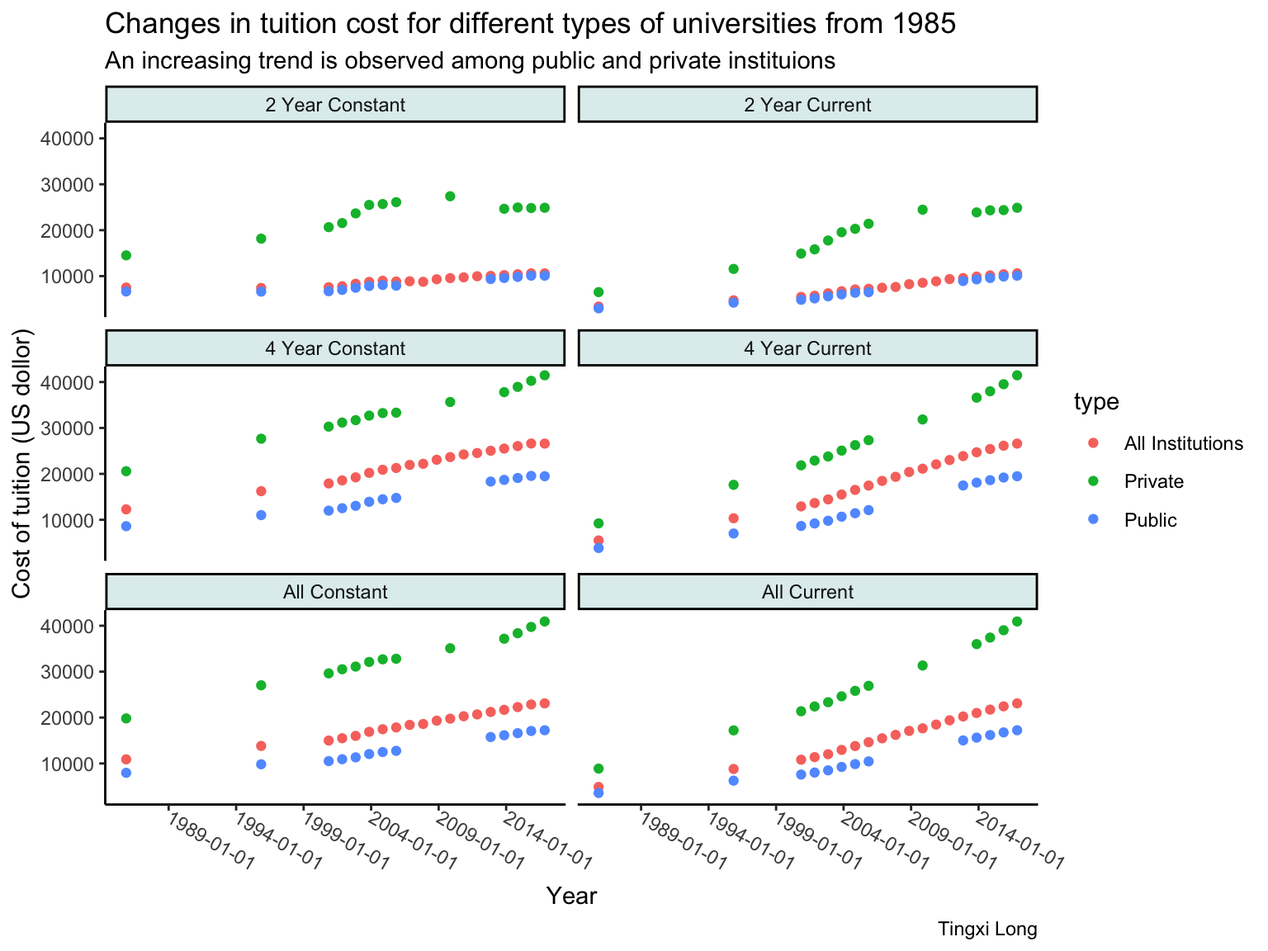
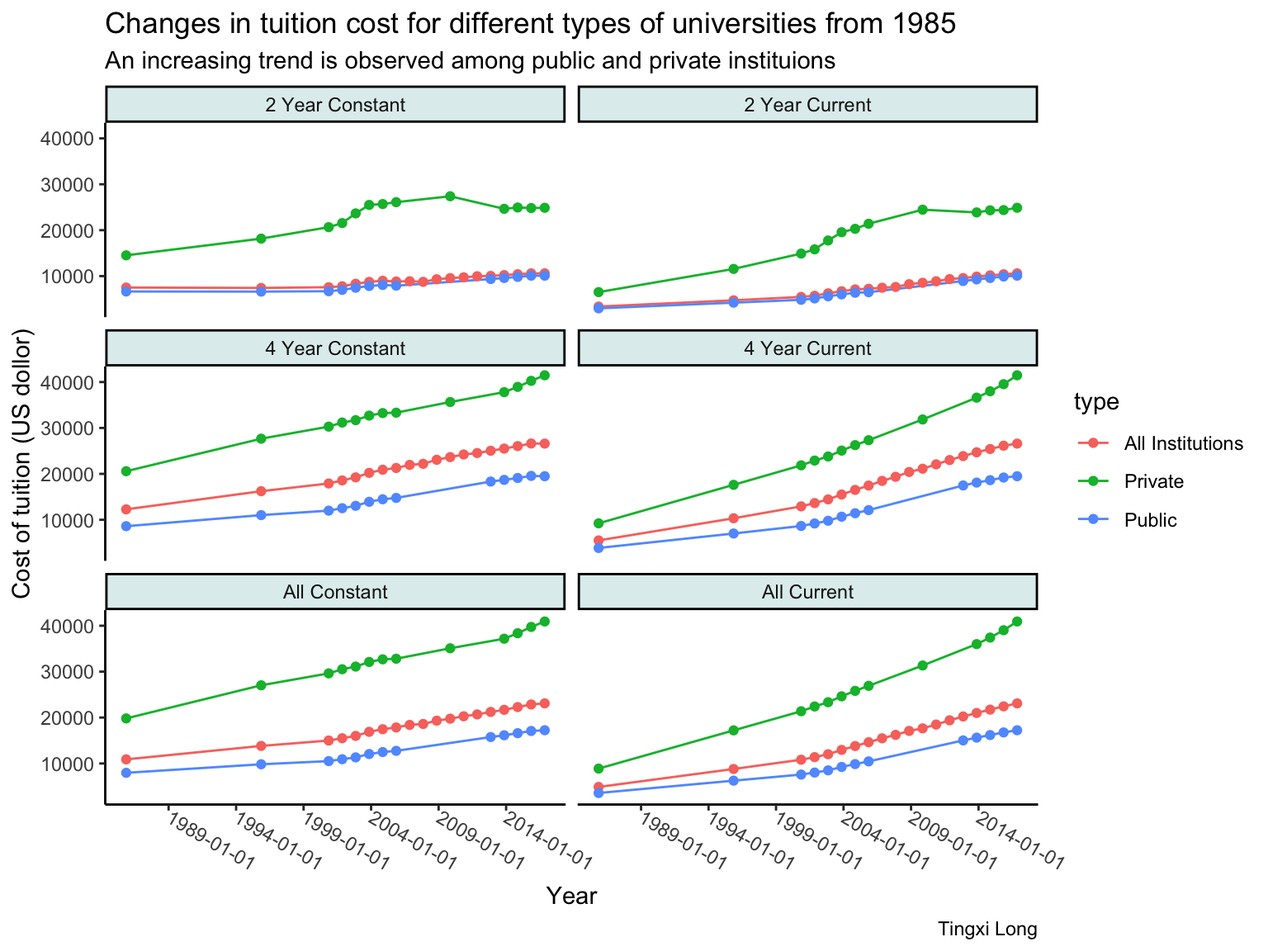
added bib and summary of analysis

diff --git a/_site/data_analysis.html b/_site/data_analysis.html
@@ -83,6 +83,25 @@ code span.st { color: #4070a0; } /* String */
 code span.va { color: #19177c; } /* Variable */
 code span.vs { color: #4070a0; } /* VerbatimString */
 code span.wa { color: #60a0b0; font-weight: bold; font-style: italic; } /* Warning */
+div.csl-bib-body { }
+div.csl-entry {
+  clear: both;
+}
+.hanging div.csl-entry {
+  margin-left:2em;
+  text-indent:-2em;
+}
+div.csl-left-margin {
+  min-width:2em;
+  float:left;
+}
+div.csl-right-inline {
+  margin-left:2em;
+  padding-left:1em;
+}
+div.csl-indent {
+  margin-left: 2em;
+}
 </style>
 
 
@@ -177,14 +196,14 @@ code span.wa { color: #60a0b0; font-weight: bold; font-style: italic; } /* Warni
   <li><a href="#introduction" id="toc-introduction" class="nav-link active" data-scroll-target="#introduction">Introduction</a></li>
   <li><a href="#data" id="toc-data" class="nav-link" data-scroll-target="#data">Data</a>
   <ul class="collapse">
-  <li><a href="#historical_tuition.csv" id="toc-historical_tuition.csv" class="nav-link" data-scroll-target="#historical_tuition.csv"><strong>historical_tuition.csv</strong></a></li>
+  <li><a href="#historical_tuition.csv-tuitioncost" id="toc-historical_tuition.csv-tuitioncost" class="nav-link" data-scroll-target="#historical_tuition.csv-tuitioncost"><strong>historical_tuition.csv</strong> <span class="citation" data-cites="tuitioncost">(<em>Tuition and Fees, 1998-99 Through 2020-21</em> 2021)</span></a></li>
   <li><a href="#tuition_cost.csv" id="toc-tuition_cost.csv" class="nav-link" data-scroll-target="#tuition_cost.csv"><strong>tuition_cost.csv</strong></a></li>
   </ul></li>
   <li><a href="#tasks" id="toc-tasks" class="nav-link" data-scroll-target="#tasks">Tasks</a>
   <ul class="collapse">
   <li><a href="#what-is-the-trend-of-tuition-cost-for-colleges-in-the-us" id="toc-what-is-the-trend-of-tuition-cost-for-colleges-in-the-us" class="nav-link" data-scroll-target="#what-is-the-trend-of-tuition-cost-for-colleges-in-the-us">What is the trend of tuition cost for colleges in the US?</a></li>
   <li><a href="#which-state-has-the-highest-average-tuition-cost" id="toc-which-state-has-the-highest-average-tuition-cost" class="nav-link" data-scroll-target="#which-state-has-the-highest-average-tuition-cost">Which State has the highest average tuition cost?</a></li>
-  <li><a href="#the-top-10-most-expensive-universities-in-maryland." id="toc-the-top-10-most-expensive-universities-in-maryland." class="nav-link" data-scroll-target="#the-top-10-most-expensive-universities-in-maryland.">The top 10 most expensive universities in Maryland.</a></li>
+  <li><a href="#the-most-expensive-universities-in-maryland." id="toc-the-most-expensive-universities-in-maryland." class="nav-link" data-scroll-target="#the-most-expensive-universities-in-maryland.">The most expensive universities in Maryland.</a></li>
   </ul></li>
   <li><a href="#summary" id="toc-summary" class="nav-link" data-scroll-target="#summary">Summary:</a></li>
   </ul>
@@ -219,7 +238,7 @@ code span.wa { color: #60a0b0; font-weight: bold; font-style: italic; } /* Warni
 </div>
 <section id="introduction" class="level2">
 <h2 class="anchored" data-anchor-id="introduction">Introduction</h2>
-<p>In this part, I will perform an example data analysis with R.</p>
+<p>In this part, I will perform an example data analysis with R with <span class="citation" data-cites="tidytuesday tuitioncost historical">(<a href="#ref-tidytuesday" role="doc-biblioref">Mock 2022</a>; <a href="#ref-tuitioncost" role="doc-biblioref"><em>Tuition and Fees, 1998-99 Through 2020-21</em> 2021</a>; <a href="#ref-historical" role="doc-biblioref">National Center for Education Statistics 2022</a>)</span>.</p>
 <p>Objective:</p>
 <ul>
 <li>What is the trend of tuition cost among public, private and all institutions in the United States?</li>
@@ -250,56 +269,14 @@ Note
 <h2 class="anchored" data-anchor-id="data">Data</h2>
 <p>Specifically, we will use the following data from March 2020.</p>
 <div class="cell">
-<div class="sourceCode cell-code" id="cb1"><pre class="sourceCode r code-with-copy"><code class="sourceCode r"><span id="cb1-1"><a href="#cb1-1" aria-hidden="true" tabindex="-1"></a><span class="fu">library</span>(dplyr)</span></code><button title="Copy to Clipboard" class="code-copy-button"><i class="bi"></i></button></pre></div>
-<div class="cell-output cell-output-stderr">
-<pre><code>
-Attaching package: 'dplyr'</code></pre>
-</div>
-<div class="cell-output cell-output-stderr">
-<pre><code>The following objects are masked from 'package:stats':
-
-    filter, lag</code></pre>
-</div>
-<div class="cell-output cell-output-stderr">
-<pre><code>The following objects are masked from 'package:base':
-
-    intersect, setdiff, setequal, union</code></pre>
-</div>
-<div class="sourceCode cell-code" id="cb5"><pre class="sourceCode r code-with-copy"><code class="sourceCode r"><span id="cb5-1"><a href="#cb5-1" aria-hidden="true" tabindex="-1"></a><span class="fu">library</span>(tidyverse)</span></code><button title="Copy to Clipboard" class="code-copy-button"><i class="bi"></i></button></pre></div>
-<div class="cell-output cell-output-stderr">
-<pre><code>── Attaching packages
-───────────────────────────────────────
-tidyverse 1.3.2 ──</code></pre>
-</div>
-<div class="cell-output cell-output-stderr">
-<pre><code>✔ ggplot2 3.3.6     ✔ purrr   0.3.4
-✔ tibble  3.1.7     ✔ stringr 1.4.0
-✔ tidyr   1.2.0     ✔ forcats 0.5.2
-✔ readr   2.1.2     
-── Conflicts ────────────────────────────────────────── tidyverse_conflicts() ──
-✖ dplyr::filter() masks stats::filter()
-✖ dplyr::lag()    masks stats::lag()</code></pre>
-</div>
-<div class="sourceCode cell-code" id="cb8"><pre class="sourceCode r code-with-copy"><code class="sourceCode r"><span id="cb8-1"><a href="#cb8-1" aria-hidden="true" tabindex="-1"></a><span class="fu">library</span>(ggplot2)</span>
-<span id="cb8-2"><a href="#cb8-2" aria-hidden="true" tabindex="-1"></a><span class="fu">library</span>(lubridate)</span></code><button title="Copy to Clipboard" class="code-copy-button"><i class="bi"></i></button></pre></div>
-<div class="cell-output cell-output-stderr">
-<pre><code>
-Attaching package: 'lubridate'
-
-The following objects are masked from 'package:base':
-
-    date, intersect, setdiff, union</code></pre>
-</div>
-<div class="sourceCode cell-code" id="cb10"><pre class="sourceCode r code-with-copy"><code class="sourceCode r"><span id="cb10-1"><a href="#cb10-1" aria-hidden="true" tabindex="-1"></a><span class="fu">library</span>(here)</span></code><button title="Copy to Clipboard" class="code-copy-button"><i class="bi"></i></button></pre></div>
-<div class="cell-output cell-output-stderr">
-<pre><code>here() starts at /Users/longtingxi/R/statcomputing/TLong</code></pre>
-</div>
+<div class="sourceCode cell-code" id="cb1"><pre class="sourceCode r code-with-copy"><code class="sourceCode r"><span id="cb1-1"><a href="#cb1-1" aria-hidden="true" tabindex="-1"></a><span class="fu">library</span>(dplyr)</span>
+<span id="cb1-2"><a href="#cb1-2" aria-hidden="true" tabindex="-1"></a><span class="fu">library</span>(tidyverse)</span>
+<span id="cb1-3"><a href="#cb1-3" aria-hidden="true" tabindex="-1"></a><span class="fu">library</span>(ggplot2)</span>
+<span id="cb1-4"><a href="#cb1-4" aria-hidden="true" tabindex="-1"></a><span class="fu">library</span>(lubridate)</span>
+<span id="cb1-5"><a href="#cb1-5" aria-hidden="true" tabindex="-1"></a><span class="fu">library</span>(here)</span></code><button title="Copy to Clipboard" class="code-copy-button"><i class="bi"></i></button></pre></div>
 </div>
 <div class="cell">
-<div class="sourceCode cell-code" id="cb12"><pre class="sourceCode r code-with-copy"><code class="sourceCode r"><span id="cb12-1"><a href="#cb12-1" aria-hidden="true" tabindex="-1"></a>tuesdata <span class="ot">&lt;-</span> tidytuesdayR<span class="sc">::</span><span class="fu">tt_load</span>(<span class="st">'2020-03-10'</span>)</span>
-<span id="cb12-2"><a href="#cb12-2" aria-hidden="true" tabindex="-1"></a>tuesdata <span class="ot">&lt;-</span> tidytuesdayR<span class="sc">::</span><span class="fu">tt_load</span>(<span class="dv">2020</span>, <span class="at">week =</span> <span class="dv">11</span>)</span>
-<span id="cb12-3"><a href="#cb12-3" aria-hidden="true" tabindex="-1"></a>tuition_cost <span class="ot">&lt;-</span> tuesdata<span class="sc">$</span>tuition_cost</span>
-<span id="cb12-4"><a href="#cb12-4" aria-hidden="true" tabindex="-1"></a>hist_tuition <span class="ot">&lt;-</span> tuesdata<span class="sc">$</span>historical_tuition</span></code><button title="Copy to Clipboard" class="code-copy-button"><i class="bi"></i></button></pre></div>
+
 </div>
 <div class="callout-tip callout callout-style-simple">
 <div class="callout-body d-flex">
@@ -312,28 +289,28 @@ The following objects are masked from 'package:base':
 </div>
 </div>
 <div class="cell">
-<div class="sourceCode cell-code" id="cb13"><pre class="sourceCode r code-with-copy"><code class="sourceCode r"><span id="cb13-1"><a href="#cb13-1" aria-hidden="true" tabindex="-1"></a><span class="cf">if</span>(<span class="sc">!</span><span class="fu">dir.exists</span>(<span class="fu">here</span>(<span class="st">"data"</span>))) { <span class="fu">dir.create</span>(<span class="fu">here</span>(<span class="st">"data"</span>)) }</span>
-<span id="cb13-2"><a href="#cb13-2" aria-hidden="true" tabindex="-1"></a></span>
-<span id="cb13-3"><a href="#cb13-3" aria-hidden="true" tabindex="-1"></a><span class="cf">if</span>(<span class="sc">!</span><span class="fu">file.exists</span>(<span class="fu">here</span>(<span class="st">"data"</span>,<span class="st">"tuesdata_cost.RDS"</span>))){</span>
-<span id="cb13-4"><a href="#cb13-4" aria-hidden="true" tabindex="-1"></a>  tuesdata <span class="ot">&lt;-</span> tidytuesdayR<span class="sc">::</span><span class="fu">tt_load</span>(<span class="st">'2020-03-10'</span>)</span>
-<span id="cb13-5"><a href="#cb13-5" aria-hidden="true" tabindex="-1"></a>  tuition_cost <span class="ot">&lt;-</span> tuesdata<span class="sc">$</span>tuition_cost</span>
-<span id="cb13-6"><a href="#cb13-6" aria-hidden="true" tabindex="-1"></a>  hist_tuition <span class="ot">&lt;-</span> tuesdata<span class="sc">$</span>historical_tuition</span>
-<span id="cb13-7"><a href="#cb13-7" aria-hidden="true" tabindex="-1"></a>  </span>
-<span id="cb13-8"><a href="#cb13-8" aria-hidden="true" tabindex="-1"></a>  <span class="co"># save the files to RDS objects</span></span>
-<span id="cb13-9"><a href="#cb13-9" aria-hidden="true" tabindex="-1"></a>  <span class="fu">saveRDS</span>(tuesdata<span class="sc">$</span>tuition_cost, <span class="at">file =</span> <span class="fu">here</span>(<span class="st">"data"</span>,<span class="st">"tuesdata_cost.RDS"</span>))</span>
-<span id="cb13-10"><a href="#cb13-10" aria-hidden="true" tabindex="-1"></a>  <span class="fu">saveRDS</span>(tuesdata<span class="sc">$</span>hist_tuition, <span class="at">file =</span> <span class="fu">here</span>(<span class="st">"data"</span>,<span class="st">"tuesdata_hist.RDS"</span>))</span>
-<span id="cb13-11"><a href="#cb13-11" aria-hidden="true" tabindex="-1"></a>}</span></code><button title="Copy to Clipboard" class="code-copy-button"><i class="bi"></i></button></pre></div>
+<div class="sourceCode cell-code" id="cb2"><pre class="sourceCode r code-with-copy"><code class="sourceCode r"><span id="cb2-1"><a href="#cb2-1" aria-hidden="true" tabindex="-1"></a><span class="cf">if</span>(<span class="sc">!</span><span class="fu">dir.exists</span>(<span class="fu">here</span>(<span class="st">"data"</span>))) { <span class="fu">dir.create</span>(<span class="fu">here</span>(<span class="st">"data"</span>)) }</span>
+<span id="cb2-2"><a href="#cb2-2" aria-hidden="true" tabindex="-1"></a></span>
+<span id="cb2-3"><a href="#cb2-3" aria-hidden="true" tabindex="-1"></a><span class="cf">if</span>(<span class="sc">!</span><span class="fu">file.exists</span>(<span class="fu">here</span>(<span class="st">"data"</span>,<span class="st">"tuesdata_cost.RDS"</span>))){</span>
+<span id="cb2-4"><a href="#cb2-4" aria-hidden="true" tabindex="-1"></a>  tuesdata <span class="ot">&lt;-</span> tidytuesdayR<span class="sc">::</span><span class="fu">tt_load</span>(<span class="st">'2020-03-10'</span>)</span>
+<span id="cb2-5"><a href="#cb2-5" aria-hidden="true" tabindex="-1"></a>  tuition_cost <span class="ot">&lt;-</span> tuesdata<span class="sc">$</span>tuition_cost</span>
+<span id="cb2-6"><a href="#cb2-6" aria-hidden="true" tabindex="-1"></a>  hist_tuition <span class="ot">&lt;-</span> tuesdata<span class="sc">$</span>historical_tuition</span>
+<span id="cb2-7"><a href="#cb2-7" aria-hidden="true" tabindex="-1"></a>  </span>
+<span id="cb2-8"><a href="#cb2-8" aria-hidden="true" tabindex="-1"></a>  <span class="co"># save the files to RDS objects</span></span>
+<span id="cb2-9"><a href="#cb2-9" aria-hidden="true" tabindex="-1"></a>  <span class="fu">saveRDS</span>(tuesdata<span class="sc">$</span>tuition_cost, <span class="at">file =</span> <span class="fu">here</span>(<span class="st">"data"</span>,<span class="st">"tuesdata_cost.RDS"</span>))</span>
+<span id="cb2-10"><a href="#cb2-10" aria-hidden="true" tabindex="-1"></a>  <span class="fu">saveRDS</span>(tuesdata<span class="sc">$</span>hist_tuition, <span class="at">file =</span> <span class="fu">here</span>(<span class="st">"data"</span>,<span class="st">"tuesdata_hist.RDS"</span>))</span>
+<span id="cb2-11"><a href="#cb2-11" aria-hidden="true" tabindex="-1"></a>}</span></code><button title="Copy to Clipboard" class="code-copy-button"><i class="bi"></i></button></pre></div>
 </div>
 <p>Let’s load the datasets</p>
 <div class="cell">
-<div class="sourceCode cell-code" id="cb14"><pre class="sourceCode r code-with-copy"><code class="sourceCode r"><span id="cb14-1"><a href="#cb14-1" aria-hidden="true" tabindex="-1"></a>hist_tuition <span class="ot">&lt;-</span> <span class="fu">readRDS</span>(<span class="fu">here</span>(<span class="st">"data"</span>,<span class="st">"tuesdata_hist.RDS"</span>))</span>
-<span id="cb14-2"><a href="#cb14-2" aria-hidden="true" tabindex="-1"></a>tuition_cost <span class="ot">&lt;-</span> <span class="fu">readRDS</span>(<span class="fu">here</span>(<span class="st">"data"</span>,<span class="st">"tuesdata_cost.RDS"</span>))</span></code><button title="Copy to Clipboard" class="code-copy-button"><i class="bi"></i></button></pre></div>
+<div class="sourceCode cell-code" id="cb3"><pre class="sourceCode r code-with-copy"><code class="sourceCode r"><span id="cb3-1"><a href="#cb3-1" aria-hidden="true" tabindex="-1"></a>hist_tuition <span class="ot">&lt;-</span> <span class="fu">readRDS</span>(<span class="fu">here</span>(<span class="st">"data"</span>,<span class="st">"tuesdata_hist.RDS"</span>))</span>
+<span id="cb3-2"><a href="#cb3-2" aria-hidden="true" tabindex="-1"></a>tuition_cost <span class="ot">&lt;-</span> <span class="fu">readRDS</span>(<span class="fu">here</span>(<span class="st">"data"</span>,<span class="st">"tuesdata_cost.RDS"</span>))</span></code><button title="Copy to Clipboard" class="code-copy-button"><i class="bi"></i></button></pre></div>
 </div>
 <ul>
 <li>Here is a list of full <a href="https://github.com/rfordatascience/tidytuesday/tree/master/data/2020/2020-03-10/readme.md#data-dictionary">data dictionary</a> for what all the column names mean. The data dictionary for this example analysis is also shown below.</li>
 </ul>
-<section id="historical_tuition.csv" class="level3">
-<h3 class="anchored" data-anchor-id="historical_tuition.csv"><strong>historical_tuition.csv</strong></h3>
+<section id="historical_tuition.csv-tuitioncost" class="level3">
+<h3 class="anchored" data-anchor-id="historical_tuition.csv-tuitioncost"><strong>historical_tuition.csv</strong> <span class="citation" data-cites="tuitioncost">(<a href="#ref-tuitioncost" role="doc-biblioref"><em>Tuition and Fees, 1998-99 Through 2020-21</em> 2021</a>)</span></h3>
 <table class="table">
 <colgroup>
 <col style="width: 36%">
@@ -447,16 +424,16 @@ The following objects are masked from 'package:base':
 <h3 class="anchored" data-anchor-id="what-is-the-trend-of-tuition-cost-for-colleges-in-the-us">What is the trend of tuition cost for colleges in the US?</h3>
 <p>Using the <code>hist_tution</code> data, find the 4-year constant tuition cost for private, public and all institutions from 1985-2016.</p>
 <div class="cell">
-<div class="sourceCode cell-code" id="cb15"><pre class="sourceCode r code-with-copy"><code class="sourceCode r"><span id="cb15-1"><a href="#cb15-1" aria-hidden="true" tabindex="-1"></a><span class="co"># 1.  Add a column that just keeps the first `year`.</span></span>
-<span id="cb15-2"><a href="#cb15-2" aria-hidden="true" tabindex="-1"></a>hist_tuition<span class="sc">$</span>in_year <span class="ot">&lt;-</span> <span class="fu">as.Date</span>(<span class="fu">as.character</span>(<span class="fu">substr</span>(hist_tuition<span class="sc">$</span>year, <span class="dv">1</span>, <span class="dv">4</span>)), <span class="at">format =</span> <span class="st">"%Y"</span>)</span>
-<span id="cb15-3"><a href="#cb15-3" aria-hidden="true" tabindex="-1"></a><span class="co"># 2.  Plot the trend </span></span>
-<span id="cb15-4"><a href="#cb15-4" aria-hidden="true" tabindex="-1"></a><span class="fu">ggplot</span>(<span class="at">data=</span>hist_tuition, <span class="fu">aes</span>(<span class="at">x=</span>in_year, <span class="at">y =</span> tuition_cost)) <span class="sc">+</span> </span>
-<span id="cb15-5"><a href="#cb15-5" aria-hidden="true" tabindex="-1"></a>  <span class="fu">geom_point</span>(<span class="fu">aes</span>(<span class="at">colour =</span> type))<span class="sc">+</span><span class="fu">facet_wrap</span>(.<span class="sc">~</span>tuition_type,<span class="at">nrow =</span> <span class="dv">3</span>)<span class="sc">+</span></span>
-<span id="cb15-6"><a href="#cb15-6" aria-hidden="true" tabindex="-1"></a>  <span class="fu">labs</span>(<span class="at">title =</span><span class="st">"Changes in tuition cost for different types of universities from 1985"</span>, </span>
-<span id="cb15-7"><a href="#cb15-7" aria-hidden="true" tabindex="-1"></a>       <span class="at">subtitle =</span> <span class="st">"An increasing trend is observed among public and private instituions"</span>, <span class="at">caption =</span> <span class="st">"Tingxi Long"</span>)<span class="sc">+</span></span>
-<span id="cb15-8"><a href="#cb15-8" aria-hidden="true" tabindex="-1"></a>  <span class="fu">theme_classic</span>()<span class="sc">+</span><span class="fu">theme</span>(<span class="at">strip.background =</span><span class="fu">element_rect</span>(<span class="at">fill=</span><span class="st">"azure2"</span>))<span class="sc">+</span></span>
-<span id="cb15-9"><a href="#cb15-9" aria-hidden="true" tabindex="-1"></a>  <span class="fu">scale_x_date</span>(<span class="at">date_breaks =</span> <span class="st">"5 years"</span>, <span class="at">date_minor_breaks =</span> <span class="st">"2 years"</span>)<span class="sc">+</span></span>
-<span id="cb15-10"><a href="#cb15-10" aria-hidden="true" tabindex="-1"></a>  <span class="fu">theme</span>(<span class="at">axis.text.x =</span> <span class="fu">element_text</span>(<span class="at">angle =</span> <span class="sc">-</span><span class="dv">30</span>, <span class="at">vjust =</span> <span class="fl">0.5</span>, <span class="at">hjust=</span><span class="dv">0</span>))<span class="sc">+</span><span class="fu">ylab</span>(<span class="st">"Cost of tuition (US dollor)"</span>)<span class="sc">+</span><span class="fu">xlab</span>(<span class="st">"Year"</span>)</span></code><button title="Copy to Clipboard" class="code-copy-button"><i class="bi"></i></button></pre></div>
+<div class="sourceCode cell-code" id="cb4"><pre class="sourceCode r code-with-copy"><code class="sourceCode r"><span id="cb4-1"><a href="#cb4-1" aria-hidden="true" tabindex="-1"></a><span class="co"># 1.  Add a column that just keeps the first `year`.</span></span>
+<span id="cb4-2"><a href="#cb4-2" aria-hidden="true" tabindex="-1"></a>hist_tuition<span class="sc">$</span>in_year <span class="ot">&lt;-</span> <span class="fu">as.Date</span>(<span class="fu">as.character</span>(<span class="fu">substr</span>(hist_tuition<span class="sc">$</span>year, <span class="dv">1</span>, <span class="dv">4</span>)), <span class="at">format =</span> <span class="st">"%Y"</span>)</span>
+<span id="cb4-3"><a href="#cb4-3" aria-hidden="true" tabindex="-1"></a><span class="co"># 2.  Plot the trend </span></span>
+<span id="cb4-4"><a href="#cb4-4" aria-hidden="true" tabindex="-1"></a><span class="fu">ggplot</span>(<span class="at">data=</span>hist_tuition, <span class="fu">aes</span>(<span class="at">x=</span>in_year, <span class="at">y =</span> tuition_cost)) <span class="sc">+</span> </span>
+<span id="cb4-5"><a href="#cb4-5" aria-hidden="true" tabindex="-1"></a>  <span class="fu">geom_line</span>(<span class="fu">aes</span>(<span class="at">colour =</span> type))<span class="sc">+</span><span class="fu">facet_wrap</span>(.<span class="sc">~</span>tuition_type,<span class="at">nrow =</span> <span class="dv">3</span>)<span class="sc">+</span></span>
+<span id="cb4-6"><a href="#cb4-6" aria-hidden="true" tabindex="-1"></a>  <span class="fu">labs</span>(<span class="at">title =</span><span class="st">"Changes in tuition cost for different types of universities from 1985"</span>, </span>
+<span id="cb4-7"><a href="#cb4-7" aria-hidden="true" tabindex="-1"></a>       <span class="at">subtitle =</span> <span class="st">"An increasing trend is observed among public and private instituions"</span>, <span class="at">caption =</span> <span class="st">"Tingxi Long"</span>)<span class="sc">+</span><span class="fu">geom_point</span>(<span class="fu">aes</span>(<span class="at">colour=</span>type))<span class="sc">+</span></span>
+<span id="cb4-8"><a href="#cb4-8" aria-hidden="true" tabindex="-1"></a>  <span class="fu">theme_classic</span>()<span class="sc">+</span><span class="fu">theme</span>(<span class="at">strip.background =</span><span class="fu">element_rect</span>(<span class="at">fill=</span><span class="st">"azure2"</span>))<span class="sc">+</span></span>
+<span id="cb4-9"><a href="#cb4-9" aria-hidden="true" tabindex="-1"></a>  <span class="fu">scale_x_date</span>(<span class="at">date_breaks =</span> <span class="st">"5 years"</span>, <span class="at">date_minor_breaks =</span> <span class="st">"2 years"</span>)<span class="sc">+</span></span>
+<span id="cb4-10"><a href="#cb4-10" aria-hidden="true" tabindex="-1"></a>  <span class="fu">theme</span>(<span class="at">axis.text.x =</span> <span class="fu">element_text</span>(<span class="at">angle =</span> <span class="sc">-</span><span class="dv">30</span>, <span class="at">vjust =</span> <span class="fl">0.5</span>, <span class="at">hjust=</span><span class="dv">0</span>))<span class="sc">+</span><span class="fu">ylab</span>(<span class="st">"Cost of tuition (US dollor)"</span>)<span class="sc">+</span><span class="fu">xlab</span>(<span class="st">"Year"</span>)</span></code><button title="Copy to Clipboard" class="code-copy-button"><i class="bi"></i></button></pre></div>
 <div class="cell-output-display">
 <p><img src="data_analysis_files/figure-html/unnamed-chunk-5-1.png" class="img-fluid" width="768"></p>
 </div>
@@ -465,41 +442,54 @@ The following objects are masked from 'package:base':
 <section id="which-state-has-the-highest-average-tuition-cost" class="level3 page-columns page-full">
 <h3 class="anchored" data-anchor-id="which-state-has-the-highest-average-tuition-cost">Which State has the highest average tuition cost?</h3>
 <p>In this part, I will use <code>tuition_cost</code> to explore the tuition by university and by state in the US.</p>
+<div class="callout-note callout callout-style-default callout-captioned">
+<div class="callout-header d-flex align-content-center">
+<div class="callout-icon-container">
+<i class="callout-icon"></i>
+</div>
+<div class="callout-caption-container flex-fill">
+Note
+</div>
+</div>
+<div class="callout-body-container callout-body">
+<p>We use the column <code>out_of_state_tuition</code> because if an institution charges in-state and out-of-state residents the same rate, the amount is repeated in the “Out-of-state” columns.</p>
+</div>
+</div>
 <div class="cell">
-<div class="sourceCode cell-code" id="cb16"><pre class="sourceCode r code-with-copy"><code class="sourceCode r"><span id="cb16-1"><a href="#cb16-1" aria-hidden="true" tabindex="-1"></a><span class="co"># Only include 4-year programs.</span></span>
-<span id="cb16-2"><a href="#cb16-2" aria-hidden="true" tabindex="-1"></a>type_4c <span class="ot">&lt;-</span> tuition_cost <span class="sc">%&gt;%</span> </span>
-<span id="cb16-3"><a href="#cb16-3" aria-hidden="true" tabindex="-1"></a>  <span class="fu">filter</span>(degree_length <span class="sc">==</span> <span class="st">"4 Year"</span>) <span class="sc">%&gt;%</span></span>
-<span id="cb16-4"><a href="#cb16-4" aria-hidden="true" tabindex="-1"></a>  <span class="fu">group_by</span>(state_code,type) <span class="sc">%&gt;%</span></span>
-<span id="cb16-5"><a href="#cb16-5" aria-hidden="true" tabindex="-1"></a>  <span class="fu">summarise</span>(</span>
-<span id="cb16-6"><a href="#cb16-6" aria-hidden="true" tabindex="-1"></a>    <span class="at">ave_outstate=</span><span class="fu">mean</span>(out_of_state_tuition), <span class="at">.groups =</span> <span class="st">'drop'</span></span>
-<span id="cb16-7"><a href="#cb16-7" aria-hidden="true" tabindex="-1"></a>  )<span class="sc">%&gt;%</span></span>
-<span id="cb16-8"><a href="#cb16-8" aria-hidden="true" tabindex="-1"></a>  <span class="fu">arrange</span>(<span class="fu">desc</span>(ave_outstate))</span></code><button title="Copy to Clipboard" class="code-copy-button"><i class="bi"></i></button></pre></div>
+<div class="sourceCode cell-code" id="cb5"><pre class="sourceCode r code-with-copy"><code class="sourceCode r"><span id="cb5-1"><a href="#cb5-1" aria-hidden="true" tabindex="-1"></a><span class="co"># Only include 4-year programs.</span></span>
+<span id="cb5-2"><a href="#cb5-2" aria-hidden="true" tabindex="-1"></a>type_4c <span class="ot">&lt;-</span> tuition_cost <span class="sc">%&gt;%</span> </span>
+<span id="cb5-3"><a href="#cb5-3" aria-hidden="true" tabindex="-1"></a>  <span class="fu">filter</span>(degree_length <span class="sc">==</span> <span class="st">"4 Year"</span>) <span class="sc">%&gt;%</span></span>
+<span id="cb5-4"><a href="#cb5-4" aria-hidden="true" tabindex="-1"></a>  <span class="fu">group_by</span>(state_code,type) <span class="sc">%&gt;%</span></span>
+<span id="cb5-5"><a href="#cb5-5" aria-hidden="true" tabindex="-1"></a>  <span class="fu">summarise</span>(</span>
+<span id="cb5-6"><a href="#cb5-6" aria-hidden="true" tabindex="-1"></a>    <span class="at">ave_outstate=</span><span class="fu">mean</span>(out_of_state_tuition), <span class="at">.groups =</span> <span class="st">'drop'</span></span>
+<span id="cb5-7"><a href="#cb5-7" aria-hidden="true" tabindex="-1"></a>  )<span class="sc">%&gt;%</span></span>
+<span id="cb5-8"><a href="#cb5-8" aria-hidden="true" tabindex="-1"></a>  <span class="fu">arrange</span>(<span class="fu">desc</span>(ave_outstate))</span></code><button title="Copy to Clipboard" class="code-copy-button"><i class="bi"></i></button></pre></div>
 </div>
 <div class="cell page-columns page-full">
-<div class="sourceCode cell-code" id="cb17"><pre class="sourceCode r code-with-copy"><code class="sourceCode r"><span id="cb17-1"><a href="#cb17-1" aria-hidden="true" tabindex="-1"></a><span class="fu">ggplot</span>(<span class="fu">head</span>(type_4c,<span class="dv">20</span>), <span class="fu">aes</span>(<span class="at">fill=</span>type,<span class="at">x=</span> ave_outstate, <span class="at">y =</span><span class="fu">fct_reorder</span>(<span class="at">.f=</span>state_code, <span class="at">.x =</span> ave_outstate) ))<span class="sc">+</span><span class="fu">geom_bar</span>(<span class="at">stat=</span><span class="st">'identity'</span>)<span class="sc">+</span></span>
-<span id="cb17-2"><a href="#cb17-2" aria-hidden="true" tabindex="-1"></a>  <span class="fu">theme</span>(<span class="at">axis.title.y =</span> <span class="fu">element_text</span>(<span class="at">vjust =</span><span class="sc">+</span><span class="dv">3</span>))<span class="sc">+</span><span class="fu">xlab</span>(<span class="st">"Cost in dollar"</span>)<span class="sc">+</span><span class="fu">ylab</span>(<span class="st">"Cost in dollar"</span>)<span class="sc">+</span><span class="fu">scale_fill_brewer</span>(<span class="at">palette=</span><span class="st">"Pastel2"</span>)<span class="sc">+</span><span class="fu">theme</span>(<span class="at">axis.text.x =</span> <span class="fu">element_text</span>(<span class="at">angle =</span> <span class="sc">-</span><span class="dv">30</span>, <span class="at">vjust =</span> <span class="fl">0.5</span>, <span class="at">hjust=</span><span class="dv">0</span>))<span class="sc">+</span> <span class="fu">labs</span>(<span class="at">title =</span><span class="st">"Average out of state tuition cost by state"</span>,</span>
-<span id="cb17-3"><a href="#cb17-3" aria-hidden="true" tabindex="-1"></a>           <span class="at">subtitle =</span><span class="st">"The most expensive State is Rhode Island, Connecticut and Massachusetts, </span></span>
-<span id="cb17-4"><a href="#cb17-4" aria-hidden="true" tabindex="-1"></a><span class="st">19 out of 20 in the most expensive average out of state tuitions are from private institutions"</span>, </span>
-<span id="cb17-5"><a href="#cb17-5" aria-hidden="true" tabindex="-1"></a>                                 <span class="at">caption =</span> <span class="st">"Tingxi Long"</span>) <span class="sc">+</span><span class="fu">theme_bw</span>()</span></code><button title="Copy to Clipboard" class="code-copy-button"><i class="bi"></i></button></pre></div>
+<div class="sourceCode cell-code" id="cb6"><pre class="sourceCode r code-with-copy"><code class="sourceCode r"><span id="cb6-1"><a href="#cb6-1" aria-hidden="true" tabindex="-1"></a><span class="fu">ggplot</span>(<span class="fu">head</span>(type_4c,<span class="dv">20</span>), <span class="fu">aes</span>(<span class="at">fill=</span>type,<span class="at">x=</span> ave_outstate, <span class="at">y =</span><span class="fu">fct_reorder</span>(<span class="at">.f=</span>state_code, <span class="at">.x =</span> ave_outstate) ))<span class="sc">+</span><span class="fu">geom_bar</span>(<span class="at">stat=</span><span class="st">'identity'</span>)<span class="sc">+</span></span>
+<span id="cb6-2"><a href="#cb6-2" aria-hidden="true" tabindex="-1"></a>  <span class="fu">theme</span>(<span class="at">axis.title.y =</span> <span class="fu">element_text</span>(<span class="at">vjust =</span><span class="sc">+</span><span class="dv">3</span>))<span class="sc">+</span><span class="fu">xlab</span>(<span class="st">"Cost in dollar"</span>)<span class="sc">+</span><span class="fu">ylab</span>(<span class="st">"Cost in dollar"</span>)<span class="sc">+</span><span class="fu">scale_fill_brewer</span>(<span class="at">palette=</span><span class="st">"Pastel2"</span>)<span class="sc">+</span><span class="fu">theme</span>(<span class="at">axis.text.x =</span> <span class="fu">element_text</span>(<span class="at">angle =</span> <span class="sc">-</span><span class="dv">30</span>, <span class="at">vjust =</span> <span class="fl">0.5</span>, <span class="at">hjust=</span><span class="dv">0</span>))<span class="sc">+</span> <span class="fu">labs</span>(<span class="at">title =</span><span class="st">"Average out of state tuition cost by state"</span>,</span>
+<span id="cb6-3"><a href="#cb6-3" aria-hidden="true" tabindex="-1"></a>           <span class="at">subtitle =</span><span class="st">"The most expensive State is Rhode Island, Connecticut and Massachusetts, </span></span>
+<span id="cb6-4"><a href="#cb6-4" aria-hidden="true" tabindex="-1"></a><span class="st">19 out of 20 in the most expensive average out of state tuitions are from private institutions"</span>, </span>
+<span id="cb6-5"><a href="#cb6-5" aria-hidden="true" tabindex="-1"></a>                                 <span class="at">caption =</span> <span class="st">"Tingxi Long"</span>) <span class="sc">+</span><span class="fu">theme_bw</span>()</span></code><button title="Copy to Clipboard" class="code-copy-button"><i class="bi"></i></button></pre></div>
 
 <div class="no-row-height column-margin column-container"><div class="cell-output-display">
 <p><img src="data_analysis_files/figure-html/unnamed-chunk-7-1.png" class="img-fluid" width="768"></p>
 </div></div></div>
 <p>When only 4-year programs were included, the top 3 most expensive State is Rhode Island, Connecticut and Massachusetts, with average out of state cost exceeding 40,000 dollars per year. 19 out of 20 in the most expensive average out of state tuitions are from private institutions.</p>
 </section>
-<section id="the-top-10-most-expensive-universities-in-maryland." class="level3">
-<h3 class="anchored" data-anchor-id="the-top-10-most-expensive-universities-in-maryland.">The top 10 most expensive universities in Maryland.</h3>
+<section id="the-most-expensive-universities-in-maryland." class="level3">
+<h3 class="anchored" data-anchor-id="the-most-expensive-universities-in-maryland.">The most expensive universities in Maryland.</h3>
 <div class="cell">
-<div class="sourceCode cell-code" id="cb18"><pre class="sourceCode r code-with-copy"><code class="sourceCode r"><span id="cb18-1"><a href="#cb18-1" aria-hidden="true" tabindex="-1"></a><span class="co"># Filter only universities in Maryland</span></span>
-<span id="cb18-2"><a href="#cb18-2" aria-hidden="true" tabindex="-1"></a>tuition_md <span class="ot">&lt;-</span> tuition_cost <span class="sc">%&gt;%</span> </span>
-<span id="cb18-3"><a href="#cb18-3" aria-hidden="true" tabindex="-1"></a>  <span class="fu">filter</span>(state_code <span class="sc">==</span> <span class="st">"MD"</span>)</span></code><button title="Copy to Clipboard" class="code-copy-button"><i class="bi"></i></button></pre></div>
+<div class="sourceCode cell-code" id="cb7"><pre class="sourceCode r code-with-copy"><code class="sourceCode r"><span id="cb7-1"><a href="#cb7-1" aria-hidden="true" tabindex="-1"></a><span class="co"># Filter only universities in Maryland</span></span>
+<span id="cb7-2"><a href="#cb7-2" aria-hidden="true" tabindex="-1"></a>tuition_md <span class="ot">&lt;-</span> tuition_cost <span class="sc">%&gt;%</span> </span>
+<span id="cb7-3"><a href="#cb7-3" aria-hidden="true" tabindex="-1"></a>  <span class="fu">filter</span>(state_code <span class="sc">==</span> <span class="st">"MD"</span>)</span></code><button title="Copy to Clipboard" class="code-copy-button"><i class="bi"></i></button></pre></div>
 </div>
 <div class="cell">
-<div class="sourceCode cell-code" id="cb19"><pre class="sourceCode r code-with-copy"><code class="sourceCode r"><span id="cb19-1"><a href="#cb19-1" aria-hidden="true" tabindex="-1"></a>tuition_md <span class="sc">%&gt;%</span> </span>
-<span id="cb19-2"><a href="#cb19-2" aria-hidden="true" tabindex="-1"></a>  <span class="fu">filter</span>(degree_length <span class="sc">==</span> <span class="st">"4 Year"</span>) <span class="sc">%&gt;%</span>  <span class="co"># Only analyze 4-year programs</span></span>
-<span id="cb19-3"><a href="#cb19-3" aria-hidden="true" tabindex="-1"></a>  <span class="fu">ggplot</span>(<span class="fu">aes</span>(<span class="at">x=</span>out_of_state_tuition, <span class="at">y=</span><span class="fu">fct_reorder</span>(<span class="at">.f=</span>name,<span class="at">.x=</span>out_of_state_tuition),<span class="at">fill=</span>type))<span class="sc">+</span><span class="fu">geom_bar</span>(<span class="at">stat=</span><span class="st">'identity'</span>)<span class="sc">+</span></span>
-<span id="cb19-4"><a href="#cb19-4" aria-hidden="true" tabindex="-1"></a>  <span class="fu">theme_bw</span>()<span class="sc">+</span> <span class="fu">labs</span>(<span class="at">title =</span><span class="st">"The tuition of university in Maryland by decreasing order"</span>, <span class="at">subtitle =</span> <span class="st">"The most expensive university in Maryland </span></span>
-<span id="cb19-5"><a href="#cb19-5" aria-hidden="true" tabindex="-1"></a><span class="st">is Johns Hopkins University"</span>, <span class="at">caption =</span> <span class="st">"Tingxi Long"</span>)<span class="sc">+</span> <span class="fu">ylab</span>(<span class="st">"University"</span>)<span class="sc">+</span><span class="fu">xlab</span>(<span class="st">"Out of State tuition"</span>)<span class="sc">+</span> <span class="fu">geom_vline</span>(<span class="at">xintercept =</span> <span class="dv">42260</span>)</span></code><button title="Copy to Clipboard" class="code-copy-button"><i class="bi"></i></button></pre></div>
+<div class="sourceCode cell-code" id="cb8"><pre class="sourceCode r code-with-copy"><code class="sourceCode r"><span id="cb8-1"><a href="#cb8-1" aria-hidden="true" tabindex="-1"></a>tuition_md <span class="sc">%&gt;%</span> </span>
+<span id="cb8-2"><a href="#cb8-2" aria-hidden="true" tabindex="-1"></a>  <span class="fu">filter</span>(degree_length <span class="sc">==</span> <span class="st">"4 Year"</span>) <span class="sc">%&gt;%</span>  <span class="co"># Only analyze 4-year programs</span></span>
+<span id="cb8-3"><a href="#cb8-3" aria-hidden="true" tabindex="-1"></a>  <span class="fu">ggplot</span>(<span class="fu">aes</span>(<span class="at">x=</span>out_of_state_tuition, <span class="at">y=</span><span class="fu">fct_reorder</span>(<span class="at">.f=</span>name,<span class="at">.x=</span>out_of_state_tuition),<span class="at">fill=</span>type))<span class="sc">+</span><span class="fu">geom_bar</span>(<span class="at">stat=</span><span class="st">'identity'</span>)<span class="sc">+</span></span>
+<span id="cb8-4"><a href="#cb8-4" aria-hidden="true" tabindex="-1"></a>  <span class="fu">theme_bw</span>()<span class="sc">+</span> <span class="fu">labs</span>(<span class="at">title =</span><span class="st">"The tuition of university in Maryland by decreasing order"</span>, <span class="at">subtitle =</span> <span class="st">"The most expensive university in Maryland </span></span>
+<span id="cb8-5"><a href="#cb8-5" aria-hidden="true" tabindex="-1"></a><span class="st">is Johns Hopkins University"</span>, <span class="at">caption =</span> <span class="st">"Tingxi Long"</span>)<span class="sc">+</span> <span class="fu">ylab</span>(<span class="st">"University"</span>)<span class="sc">+</span><span class="fu">xlab</span>(<span class="st">"Out of State tuition"</span>)<span class="sc">+</span> <span class="fu">geom_vline</span>(<span class="at">xintercept =</span> <span class="dv">42260</span>)</span></code><button title="Copy to Clipboard" class="code-copy-button"><i class="bi"></i></button></pre></div>
 <div class="cell-output-display">
 <p><img src="data_analysis_files/figure-html/unnamed-chunk-9-1.png" class="img-fluid" width="768"></p>
 </div>
@@ -508,31 +498,40 @@ The following objects are masked from 'package:base':
 </section>
 <section id="summary" class="level2">
 <h2 class="anchored" data-anchor-id="summary">Summary:</h2>
-<p>8 colleges in Maryland has an out of state tuition higher than the average out of state tuition in Rhode Island.</p>
+<p>The past 20 years have seen an increasing trend in tuition cost for both private and public colleges and universities.By the 2016, the tuition cost for 4-year program in private universities is almost twice the price of the tuition cost in public universities. When only 4-year programs were included, the top 3 most expensive State for college is Rhode Island, Connecticut and Massachusetts, with average out of state cost exceeding 40,000 dollars per year with 42260.250 per year for Rhode Island. 19 out of 20 in the most expensive average out of state tuition are from private institutions.</p>
+<p>The most expensive college in Maryland is Johns Hopkins University. 8 colleges in Maryland has an out of state tuition higher than the average out of state tuition in Rhode Island.</p>
 <div class="code-with-filename">
 <div class="code-with-filename-file">
 <pre><strong>Functions used in dplyr and tidyr and ggplot</strong></pre>
 </div>
-<div class="sourceCode" id="cb20"><pre class="sourceCode r code-with-copy"><code class="sourceCode r"><span id="cb20-1"><a href="#cb20-1" aria-hidden="true" tabindex="-1"></a>tidyr<span class="sc">::</span></span>
-<span id="cb20-2"><a href="#cb20-2" aria-hidden="true" tabindex="-1"></a>  as.Date</span>
-<span id="cb20-3"><a href="#cb20-3" aria-hidden="true" tabindex="-1"></a>dplyr<span class="sc">::</span></span>
-<span id="cb20-4"><a href="#cb20-4" aria-hidden="true" tabindex="-1"></a>  filter</span>
-<span id="cb20-5"><a href="#cb20-5" aria-hidden="true" tabindex="-1"></a>  summarise</span>
-<span id="cb20-6"><a href="#cb20-6" aria-hidden="true" tabindex="-1"></a>  group_by</span>
-<span id="cb20-7"><a href="#cb20-7" aria-hidden="true" tabindex="-1"></a>  arrange</span>
-<span id="cb20-8"><a href="#cb20-8" aria-hidden="true" tabindex="-1"></a>ggplot<span class="sc">:</span></span>
-<span id="cb20-9"><a href="#cb20-9" aria-hidden="true" tabindex="-1"></a>  geom_point</span>
-<span id="cb20-10"><a href="#cb20-10" aria-hidden="true" tabindex="-1"></a>  geom_bar</span>
-<span id="cb20-11"><a href="#cb20-11" aria-hidden="true" tabindex="-1"></a>  geom_vline</span></code><button title="Copy to Clipboard" class="code-copy-button"><i class="bi"></i></button></pre></div>
+<div class="sourceCode" id="cb9"><pre class="sourceCode r code-with-copy"><code class="sourceCode r"><span id="cb9-1"><a href="#cb9-1" aria-hidden="true" tabindex="-1"></a>tidyr<span class="sc">::</span></span>
+<span id="cb9-2"><a href="#cb9-2" aria-hidden="true" tabindex="-1"></a>  as.Date</span>
+<span id="cb9-3"><a href="#cb9-3" aria-hidden="true" tabindex="-1"></a>dplyr<span class="sc">::</span></span>
+<span id="cb9-4"><a href="#cb9-4" aria-hidden="true" tabindex="-1"></a>  filter</span>
+<span id="cb9-5"><a href="#cb9-5" aria-hidden="true" tabindex="-1"></a>  summarise</span>
+<span id="cb9-6"><a href="#cb9-6" aria-hidden="true" tabindex="-1"></a>  group_by</span>
+<span id="cb9-7"><a href="#cb9-7" aria-hidden="true" tabindex="-1"></a>  arrange</span>
+<span id="cb9-8"><a href="#cb9-8" aria-hidden="true" tabindex="-1"></a>ggplot<span class="sc">:</span></span>
+<span id="cb9-9"><a href="#cb9-9" aria-hidden="true" tabindex="-1"></a>  geom_point</span>
+<span id="cb9-10"><a href="#cb9-10" aria-hidden="true" tabindex="-1"></a>  geom_bar</span>
+<span id="cb9-11"><a href="#cb9-11" aria-hidden="true" tabindex="-1"></a>  geom_vline</span></code><button title="Copy to Clipboard" class="code-copy-button"><i class="bi"></i></button></pre></div>
 </div>
-<ul>
-<li>Your analysis must include a <code>.bib</code> file, which you use to reference at least three unique citations. For example, it could be to a website or paper from where the original data came from or it could be to a paper describing a method you are using to analyze the data.</li>
-</ul>
+
 
 
 </section>
 
-</main> <!-- /main -->
+<div id="quarto-appendix" class="default"><section class="quarto-appendix-contents" role="doc-bibliography"><h2 class="anchored quarto-appendix-heading">References</h2><div id="refs" class="references csl-bib-body hanging-indent" role="doc-bibliography">
+<div id="ref-tidytuesday" class="csl-entry" role="doc-biblioentry">
+Mock, Thomas. 2022. <span>“Tidy Tuesday: A Weekly Data Project Aimed at the r Ecosystem.”</span> <a href="https://github.com/rfordatascience/tidytuesday">https://github.com/rfordatascience/tidytuesday</a>.
+</div>
+<div id="ref-historical" class="csl-entry" role="doc-biblioentry">
+National Center for Education Statistics, Condition of Education. 2022. <em>Price of Attending an Undergraduate Institution</em>. CU.S. Department of Education, Institute of Education Sciences. <a href="https://nces.ed.gov/programs/coe/indicator/cua">https://nces.ed.gov/programs/coe/indicator/cua</a>.
+</div>
+<div id="ref-tuitioncost" class="csl-entry" role="doc-biblioentry">
+<em>Tuition and Fees, 1998-99 Through 2020-21</em>. 2021. The Chronicle of Higher Education. <a href="https://www.chronicle.com/article/tuition-and-fees-1998-99-through-2018-19/">https://www.chronicle.com/article/tuition-and-fees-1998-99-through-2018-19/</a>.
+</div>
+</div></section></div></main> <!-- /main -->
 <script id="quarto-html-after-body" type="application/javascript">
 window.document.addEventListener("DOMContentLoaded", function (event) {
   const toggleBodyColorMode = (bsSheetEl) => {
